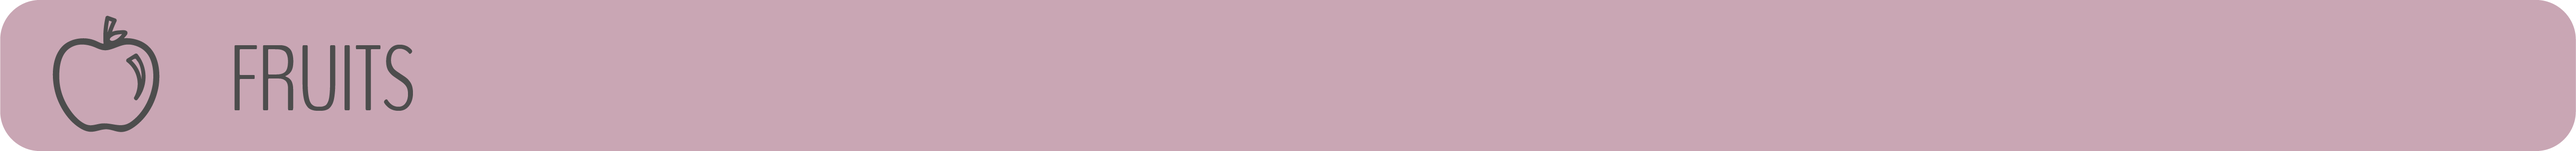
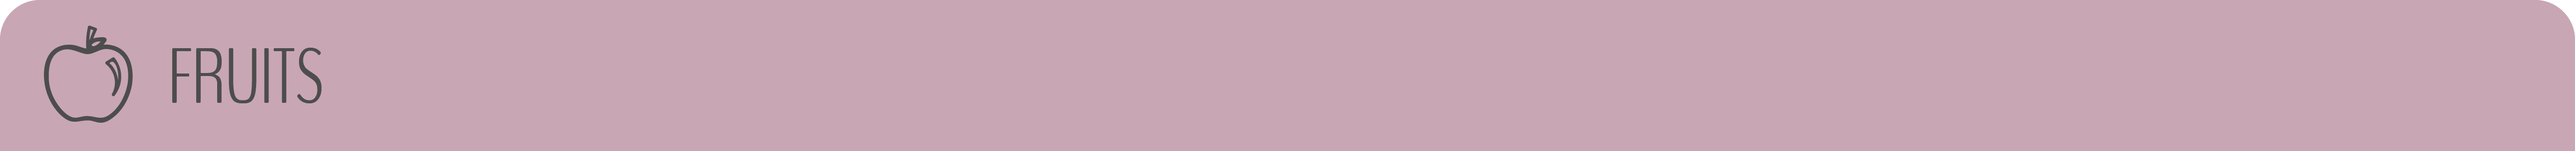
Changing headers

diff --git a/public/css/master.css b/public/css/master.css
@@ -488,16 +488,24 @@ input[type=password] {
 
 
 
+
 .ingredient_head {
-	margin-top: 10px;
-	margin-bottom: -7px;
-	width:60%;
+	margin-top: 15px;
+	margin-bottom: -4px;
+	width:66.7%;
 }
  .indredient_box{
  	background-color: #4D4D4D;
- 	width:100%;
  	height:400px;
- 	margin-bottom: 20px;
+ 	margin-bottom: 24px;
+ 	margin-top: -2px;
+	width: 35%;
+	font-size: 1.3em;
+	font-weight: 100;
+	font-family: 'BenchNine', 'Arial Narrow', sans-serif;
+	border-bottom-left-radius: 6px;
+	border-bottom-right-radius: 6px;
+	text-align: center;
  }
 
 

diff --git a/resources/views/recipes/search.blade.php b/resources/views/recipes/search.blade.php
@@ -3,5 +3,114 @@
 @include('partials.nav')
 @stop
 @section('content')
+@extends('layouts.master')
+@section('navbar')
+@include('partials.nav')
+@stop
+@section('content')
+<section class='text-center ingredients'>
+	<h3 class='ingredient_title'> SELECT YOUR INGREDIENTS </h3>
 
+<img class='ingredient_head' src="/img/veghead.png">	
+<div class="indredient_box col-xs-8 col-xs-offset-2">
+<form action="">
+
+ @foreach ($ingredients_by_category as $category => $ingredients)
+	<fieldset>
+		<legend>{{ $category }}</legend>
+		@foreach ($ingredients as $ingredient)
+			<label>
+				<input type="checkbox" name="i[]" value="{{ $ingredient->name }}">
+				{{ $ingredient->display_name }}
+			</label>
+		@endforeach
+	</fieldset>
+@endforeach
+</form>
+</div>
+
+<img class='ingredient_head' src="/img/fruithead.png">	
+<div class="indredient_box col-xs-8 col-xs-offset-2">
+<form action="">
+
+ PUT FOR EACH HERE
+</form>
+</div>
+<img class='ingredient_head' src="/img/dairyhead.png">	
+<div class="indredient_box col-xs-8 col-xs-offset-2">
+<form action="">
+
+ PUT FOR EACH HERE
+</form>
+</div>
+<img class='ingredient_head' src="/img/meathead.png">	
+<div class="indredient_box col-xs-8 col-xs-offset-2">
+<form action="">
+
+ PUT FOR EACH HERE
+</form>
+</div>
+<img class='ingredient_head' src="/img/breadhead.png">	
+<div class="indredient_box col-xs-8 col-xs-offset-2">
+<form action="">
+
+ PUT FOR EACH HERE
+</form>
+</div>
+
+
+<img class='ingredient_head' src="/img/oilhead.png">	
+<div class="indredient_box col-xs-8 col-xs-offset-2">
+<form action="">
+
+ PUT FOR EACH HERE
+</form>
+</div>
+
+
+<img class='ingredient_head' src="/img/seasoninghead.png">	
+<div class="indredient_box col-xs-8 col-xs-offset-2">
+<form action="">
+
+ PUT FOR EACH HERE
+</form>
+</div>
+
+<img class='ingredient_head' src="/img/snackhead.png">	
+<div class="indredient_box col-xs-8 col-xs-offset-2">
+<form action="">
+
+ PUT FOR EACH HERE
+</form>
+</div>
+
+<img class='ingredient_head' src="/img/beverageshead.png">	
+<div class="indredient_box col-xs-8 col-xs-offset-2">
+<form action="">
+
+ PUT FOR EACH HERE
+</form>
+</div>
+
+
+
+
+
+<!-- <section class='text-center'>
+
+<form name= 'sort' action="" class='text-left' method="GET">
+	<div class="form-group sortform">
+  		<label for="sel1">Sort By:</label>
+  		<select name = 'sort' class="form-control" id="sel1">
+			<option value= 'created_at'>Prep-time</option>
+    		<option value= 'title'>Title</option>
+ 		</select><button type="submit" class="btn btn-primary">Sort</button>
+	</div>
+</form>
+</section>
+
+ -->
+
+
+@stop
 @stop

diff --git a/resources/views/recipes/ingredients.blade.php b/resources/views/recipes/ingredients.blade.php
@@ -7,7 +7,7 @@
 	<h3 class='ingredient_title'> SELECT YOUR INGREDIENTS </h3>
 
 <img class='ingredient_head' src="/img/veghead.png">	
-<div class="indredient_box">
+<div class="indredient_box col-xs-8 col-xs-offset-2">
 <form action="">
 
  PUT FOR EACH HERE
@@ -15,28 +15,28 @@
 </div>
 
 <img class='ingredient_head' src="/img/fruithead.png">	
-<div class="indredient_box">
+<div class="indredient_box col-xs-8 col-xs-offset-2">
 <form action="">
 
  PUT FOR EACH HERE
 </form>
 </div>
 <img class='ingredient_head' src="/img/dairyhead.png">	
-<div class="indredient_box">
+<div class="indredient_box col-xs-8 col-xs-offset-2">
 <form action="">
 
  PUT FOR EACH HERE
 </form>
 </div>
 <img class='ingredient_head' src="/img/meathead.png">	
-<div class="indredient_box">
+<div class="indredient_box col-xs-8 col-xs-offset-2">
 <form action="">
 
  PUT FOR EACH HERE
 </form>
 </div>
 <img class='ingredient_head' src="/img/breadhead.png">	
-<div class="indredient_box">
+<div class="indredient_box col-xs-8 col-xs-offset-2">
 <form action="">
 
  PUT FOR EACH HERE
@@ -45,7 +45,7 @@
 
 
 <img class='ingredient_head' src="/img/oilhead.png">	
-<div class="indredient_box">
+<div class="indredient_box col-xs-8 col-xs-offset-2">
 <form action="">
 
  PUT FOR EACH HERE
@@ -54,7 +54,7 @@
 
 
 <img class='ingredient_head' src="/img/seasoninghead.png">	
-<div class="indredient_box">
+<div class="indredient_box col-xs-8 col-xs-offset-2">
 <form action="">
 
  PUT FOR EACH HERE
@@ -62,7 +62,7 @@
 </div>
 
 <img class='ingredient_head' src="/img/snackhead.png">	
-<div class="indredient_box">
+<div class="indredient_box col-xs-8 col-xs-offset-2">
 <form action="">
 
  PUT FOR EACH HERE
@@ -70,7 +70,7 @@
 </div>
 
 <img class='ingredient_head' src="/img/beverageshead.png">	
-<div class="indredient_box">
+<div class="indredient_box col-xs-8 col-xs-offset-2">
 <form action="">
 
  PUT FOR EACH HERE
